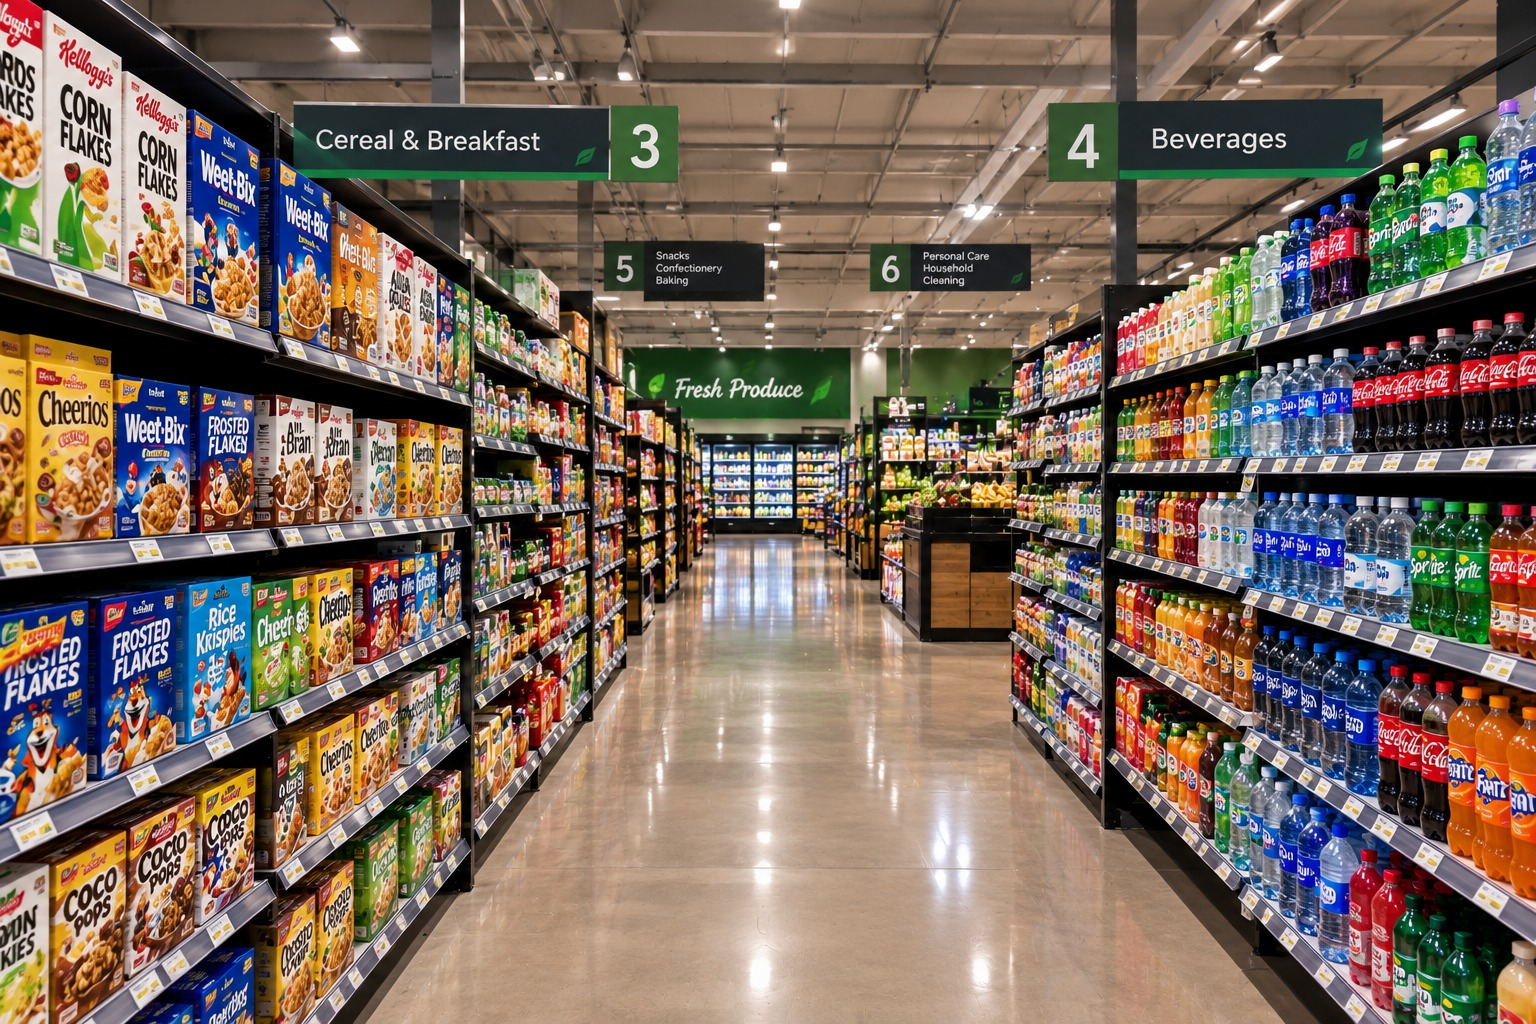
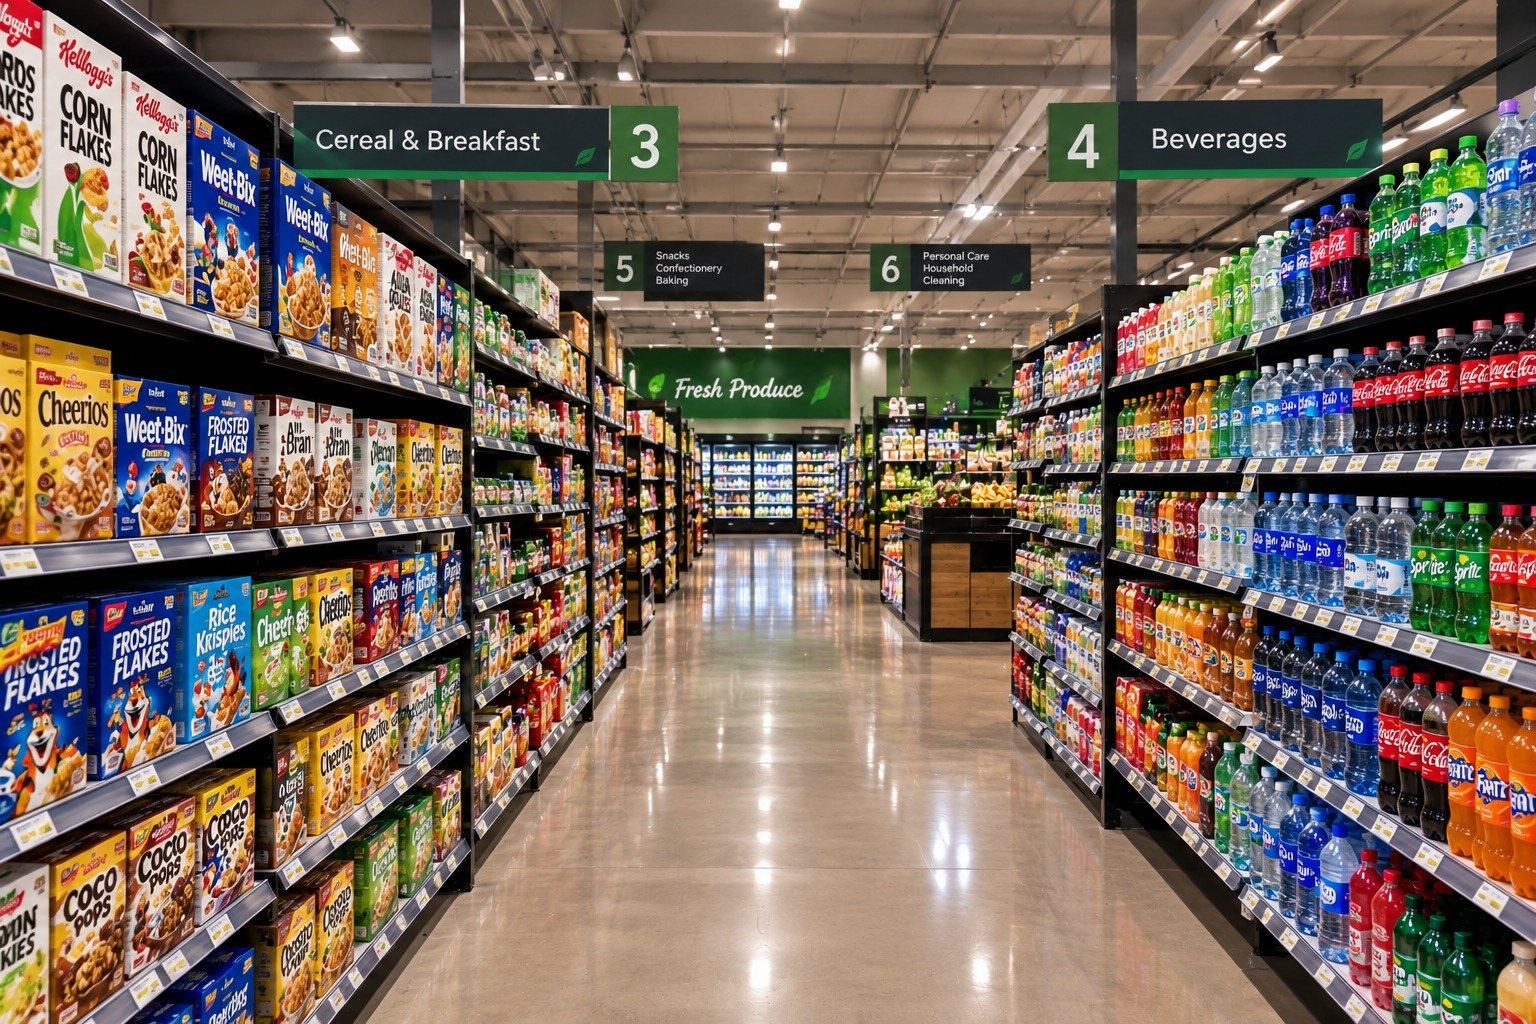
feat(walk): add three approach stops (z 6.5-8 m) and slim stop images
- stop-8/9/10: generated views toward the fridges, registered with estimated z and vanishing points
- stop-7 moved to z 5.0 (re-estimated)
- stop-9: repaired garbled "Personal Care" sign text
- all stop JPEGs recompressed (~3.2 MB -> ~2.2 MB)
- docs: stop table, coverage gaps (0-5 m, 8 m+), sign/brand caveats

Verified: tsc -b and vite build pass.

diff --git a/apps/customer_web/src/AisleWalk.tsx b/apps/customer_web/src/AisleWalk.tsx
@@ -18,8 +18,12 @@ type Pose = { z: number; x: number; yaw: number; pitch: number; phase: number; a
 // defaults (0.52, 0.39) and a 70° horizontal FOV match docs/engineering/AISLE-WALK-001.md.
 const STOP_SOURCES: StopSource[] = [
   { z: 0, src: '/walk/aisle/stop-0.jpg' },
-  { z: 6.5, src: '/walk/aisle/stop-7.jpg', vp: [0.445, 0.42] },
-  // Add generated stops here, e.g. { z: 3, src: '/walk/aisle/stop-1.jpg' }.
+  { z: 5.0, src: '/walk/aisle/stop-7.jpg', vp: [0.445, 0.42] },
+  // stop-8/9/10: generated approach views toward the fridges. z and vp are estimates (z from fridge height vs stop 0, +/-1.5 m); tune by eye.
+  { z: 6.5, src: '/walk/aisle/stop-8.jpg', vp: [0.44, 0.52] },
+  { z: 7.4, src: '/walk/aisle/stop-9.jpg', vp: [0.52, 0.556] },
+  { z: 8.0, src: '/walk/aisle/stop-10.jpg', vp: [0.48, 0.54] },
+  // Still missing: stops at z~2.5-3.5 and z~10+ (see docs/engineering/AISLE-WALK-001.md).
 ];
 const FULL_FROM_Z = 15, FULL_END = 17, FULL_ZB = 20, SPEED = 1.35;
 const CAPS_PARTIAL: Caption[] = [

diff --git a/docs/engineering/AISLE-WALK-001.md b/docs/engineering/AISLE-WALK-001.md
@@ -16,7 +16,17 @@ import AisleWalk from './AisleWalk';
 ```
 
 ## Stops
-Configured in `STOP_SOURCES` (`AisleWalk.tsx`); images in `public/walk/aisle/`. Stops are sorted by `z`, so file names can be in any order. Currently: `stop-0.jpg` (z 0) and `stop-7.jpg` (z 6.5, enhanced 2×, own vanishing point). The walk spans 0 → last stop + 2 m; once a stop at z ≥ 15 exists it spans 0 → 17 m.
+Configured in `STOP_SOURCES` (`AisleWalk.tsx`); images in `public/walk/aisle/`. Stops are sorted by `z`, so file names can be in any order. Currently (z = estimated camera distance from the entrance):
+
+| File | z (m) | Vanishing point | Notes |
+|---|---|---|---|
+| `stop-0.jpg` | 0 | default | original entrance view |
+| `stop-7.jpg` | 5.0 | .445 / .42 | far-aisle view, enhanced 2× |
+| `stop-8.jpg` | 6.5 | .44 / .52 | approach to fridges |
+| `stop-9.jpg` | 7.4 | .52 / .556 | approach to fridges (sign 6 text repainted) |
+| `stop-10.jpg` | 8.0 | .48 / .54 | closest view; open produce side with plants |
+
+z values for stops 7–10 were estimated from fridge height relative to stop 0 (±1.5 m); tune them in `STOP_SOURCES`. The walk spans 0 → last stop + 2 m (10 m now); once a stop at z ≥ 15 exists it spans 0 → 17 m. Images are ~2.2 MB in total and all load up front.
 
 ### Camera spec for new stops (identical for every shot)
 1536×1024 (3:2), rectilinear ~70° HFOV, no tilt/roll; on the aisle centre line, eye height 1.6 m; aisle floor vanishing point ≈ 52% across, 39% down; aisle 2.3 m wide, shelving both sides ~2.1 m; same floor, ceiling, lighting and sign style; no people or carts; generic fictional brands only.
@@ -39,6 +49,9 @@ Chain shots: pass the previous stop as reference — *"Same aisle, camera moved 
 Keep z ≥ 12 a corridor (full-height produce displays both sides, same 2.3 m width).
 
 ## Known limits
+- **Coverage gaps:** nothing between z 0 and 5 m except one long cross-fade (shelf textures repeat here), and nothing past ~8 m (last 2 m of the walk are extrapolated). Next stops needed: z ≈ 2.5–3.5 and z ≈ 10+.
+- Signs 5/6 are the same apparent size in stops 8–10 although the fridges get closer, so they won't grow as you approach.
+- Stops show real brand packaging (Kellogg's, Coca-Cola, etc.). Replace with generic packaging before wider public use; the repo is public.
 - Camera constants are global except per-stop `vp` and `f`; a stop that drifts from the spec should be regenerated.
 - Stops generated independently will differ in shelf contents when cross-fading.
 - Not yet tested in CI; no `walk_product_positions` anchors or overlays yet.
